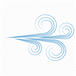
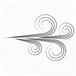
added new powerup image

diff --git a/www/src/kite.js b/www/src/kite.js
@@ -2,7 +2,7 @@ var game = new Phaser.Game(360, 640, Phaser.AUTO, 'project-kite',{ preload: prel
 
 function preload() {
         //scaling window for all devices
-        game.scale.scaleMode = Phaser.ScaleManager.EXACT_FIT;
+        game.scale.scaleMode = Phaser.ScaleManager.SHOW_ALL;
         //game.scale.forceOrientation(false,true);
         //game.scale.enterIncorrectOrientation.add(handleIncorrect);
         //game.scale.leaveIncorrectOrientation.add(handleIncorrect);
@@ -10,7 +10,7 @@ function preload() {
         game.load.image('bigClouds', 'assets/images/tallClouds.jpg');
         game.load.spritesheet('string', 'assets/images/testString2.png', 4, 26);
         game.load.spritesheet('kite', 'assets/images/simpleKite.png', 40, 60);
-        game.load.spritesheet('powerUp','assets/images/powerupwind.png', 76, 76);
+        game.load.spritesheet('powerUp','assets/images/wind.png', 76, 76);
         game.load.spritesheet('restartButton', 'assets/images/restartButton.jpeg', 100, 100);
         game.load.spritesheet('goon', 'assets/images/turtleShell.png', 50, 50);
         game.load.spritesheet('loseBoundary', 'assets/images/loseBoundary.png', 15, game.width);
